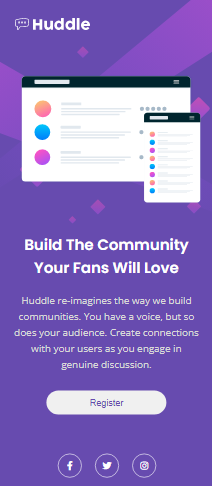
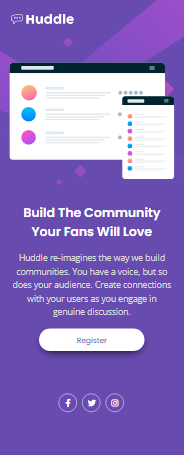
Modificações
Index.html: excluído a tag button;
style.css: efetuado modificações no estilo de fundo, largura da imagem e outros;
responsive1.css: atualização das resoluções;
Pasta x-design: atualização das imagens;
Readme.md: atualização das imagens do layout

Changed region(s): [[0.0, 0.0, 1.0, 0.9846]]

diff --git a/src/css/style.css b/src/css/style.css
@@ -1,37 +1,37 @@
 html{
+    min-height: 100vh;
     background: url(../image/bg-desktop.svg) no-repeat;
-    background-color: var(--primary);    
+    background-color: var(--primary);  
+    background-size: cover;
 }
 
 .header{
-    padding-left: 70px;
+    padding-left: 80px;
     margin-bottom: 20px;
+    padding-top: 30px;
 }
 
 .header img{
-    height: 170px;
-    width: 215px;      
+    width: 215px;
+        
 }
 
 .hero .hero-container{
     display: flex;
-    padding: 0 5px 0 70px ;
-}
-
-.hero .hero-container .image{
-    max-width: 100%;
+    align-items: center;
+    padding: 90px 5px 0 80px ;
 }
 
 .hero .hero-container .hero-info{
     font-family: 'Poppins', sans-serif;
     font-weight: 600;
-    padding: 0px 80px 0px 54px;
+    padding: 0px 80px 140px 54px;
 }
 
 .hero .hero-container h1{
     color: white;
-    font-size: 39.5px;
-    margin: 45px auto 20px;
+    font-size: 35px;
+    margin-bottom: 20px;
 }
 
 .hero .hero-container p{
@@ -43,17 +43,16 @@ html{
     color: rgb(216, 216, 216);    
 }
 
-.hero .hero-container .botao{
-    width: 200px;
-    height: 50px;
-    border-radius: 100px;    
-    border-style: hidden;
-}
-
-.hero .hero-container .botao a{
+.hero .hero-container .btn{
     color: var(--primary);
-    font-size: 18px;
+    background-color: #ffff;
+    font-size: 16px;
     font-weight: 400;   
+    border-radius: 100px;
+    padding: 12px 55px;
+    box-shadow: 0 8px 17px -8px black;
+    transition: 0.5s ease-in-out;
+    
 }
 
 .hero .hero-container a:hover , .botao:hover{
@@ -64,32 +63,54 @@ html{
 footer{
     display: flex;
     justify-content: flex-end;
-    padding-top: 21px;
-    padding-right: 80px;
+    padding-top: 50px;
+    padding-right: 60px;
 }
 
-footer button{
-    background: var(--primary);
-    border-radius: 50%;
-    border: 1px solid #ffff;
-    height: 40px;
-    width: 40px;
-    margin-inline-start: 12px;
-    transition: 0.3s;
-}
-
-footer button .fa-facebook-f,.fa-twitter,.fa-instagram{
-    font-size: 15px;
+footer a i{
     color: #ffff;
-    transition: 0.3s;
+    font-size: 15px;
+    position: relative;
+    transition: all .3s ease;
 }
 
-footer button:hover{
-    border: 1px solid var(--primary-soft);
+footer a:nth-child(n+2):nth-child(-n+3){
+    margin-left: 2rem;
 }
 
-footer button .fa-facebook-f:hover,.fa-twitter:hover,.fa-instagram:hover{
+  footer a i::after{
+    content: '';
+    position: absolute;
+    height: 35px;
+    width: 35px;
+    border: 1px solid #fff;
+    border-radius: 50%;
+    left: -12px;
+    bottom: -11px;
+    transition: 0.3s ease-in-out;
+}
+
+ footer a i.fa-facebook-f::after{
+    content: '';
+    position: absolute;
+    height: 35px;
+    width: 35px;
+    border: 1px solid #fff;
+    border-radius: 50%;
+    left: -14px;
+    bottom: -11px;
+    transition: 0.3s ease-in-out;
+}
+
+footer a .fa-twitter{
+    margin-left: 0.2rem;
+}
+
+footer a:hover i{
     color: var(--primary-soft);
 }
 
+footer a i:hover::after{
+    border-color: var(--primary-soft);
+}
 

diff --git a/src/css/responsive1.css b/src/css/responsive1.css
@@ -1,51 +1,27 @@
-@media(max-width:1024px){
-    .header{
-        padding-left: 25px;
-    }
-
-    .hero .hero-container{
-        /* padding-top: 50px; */
-        padding: 25px;
-    }
-
+@media(max-width:1440px){
     .hero .hero-container .image{
         max-width: 100%;
     }
+}
 
-    .hero .hero-container .hero-info{
-        padding-right: 5px;
-    }
-
-
-    .hero .hero-container .hero-info h1{
-        font-size: 18px;
-    }
-
-    .hero .hero-container .hero-info p{
-        font-size: 13px;
-    }
-
-    .hero .hero-container .hero-info .botao{
-        width: 160px;
-        height: 40px;
-    }
-
-    .hero .hero-container .hero-info .btn{
-        font-size: 15px;
-    }
-
-    footer{
-        padding-top: 2.5px;
+@media(max-width:1320px){
+    .hero .hero-container .image{
+        max-width: 50%;
     }
 }
 
-@media(max-width:688px){
+@media(max-width:768px){
+    
+    .hero .hero-container .image{
+        max-width: 100%;
+    }
     
     .hero .hero-container{
         display: flex;
         flex-direction: column;
         justify-content: center;
         align-items: center;
+        padding-right: 54px;
     }
 
     .hero .hero-container .hero-info h1{
@@ -57,16 +33,11 @@
     }
 
     footer{
-        padding: 40px;
-        display: flex;
-        justify-content: center;
-        align-items: center;
+        padding: 0px 60px  50px 0px;
     }
-
-    
 }
 
-@media(max-width:375px){
+    @media(max-width:375px){
     html{
         background: url(../image/bg-mobile.svg) no-repeat;
         background-color: var(--primary);
@@ -89,11 +60,6 @@
         padding: 20px;
     }
 
-    .hero .hero-container .image{
-        max-width: 100%;
-        padding-left: 15px;
-    }
-
     .hero .hero-container .hero-info{
         text-align: center;
         padding: 5px ;
@@ -101,31 +67,25 @@
 
     .hero .hero-container .hero-info h1{
         font-size: 25px;
+        margin-top: 40px;
     }
 
     .hero .hero-container .hero-info p{
-        font-size: 16.5px;
-    }
-
-    .hero .hero-container .hero-info .botao{
-        width: 200px;
-        height: 40px;
+        font-size: 17px;
     }
 
     .hero .hero-container .hero-info .btn{
         font-size: 15px;
         font-weight: 400;
+        padding: 12px 75px;
     }
 
     footer{
-        padding: 40px;
         display: flex;
         justify-content: center;
         align-items: center;
+        padding: 40px;
+        margin-top: 40px;
     }
 
-    footer button{
-        margin-right: 10px;
-    }
-}
-    
+} 

diff --git a/index.html b/index.html
@@ -42,30 +42,25 @@
                     Huddle re-imagines the way we build communities. You have a voice, but so does your audience.
                     Create connections with your users as you engage in genuine discussion.
                 </p>
-                <button class="botao"><a href="#register" class="btn">Register</a></button>
+                <a href="#register" class="btn">Register</a>
             </div>
         </div>
     </section>
 
     <footer>
 
-        <button>
-            <a href="">
-                <i class="fab fa-facebook-f"></i>
-            </a>
-        </button>
+        <a href="#">
+            <i class="fab fa-facebook-f"></i>
+        </a>
 
-        <button>
-            <a href="">
-                <i class="fab fa-twitter"></i>
-            </a>
-        </button>
+        <a href="#">
+            <i class="fab fa-twitter"></i>
+        </a>
 
-        <button>
-            <a href="">
-                <i class="fab fa-instagram"></i>
-            </a>
-        </button>
+        <a href="#">
+            <i class="fab fa-instagram"></i>
+        </a>
+
     </footer>
 
 </body>

diff --git a/README.md b/README.md
@@ -7,7 +7,7 @@ Obrigado por conferir meu projeto que é um  desafio de codificação do site: [
 
 Podemos visualizar o projeto "Hudlle landing page" na versão:
 ## Desktop-design 
-![Visualizando o projeto para o “Huddle landing page” com uma única seção introdutória, na versão desktop](./x-design/desktop-design.jpg)
+![Visualizando o projeto para o “Huddle landing page” com uma única seção introdutória, na versão desktop](./x-design/desktop-design.png)
 
 ## Mobile-design
 ![Visualizando o projeto para o “Huddle landing page” com uma única seção introdutória, na versão mobile](./x-design/mobile-design.png)
